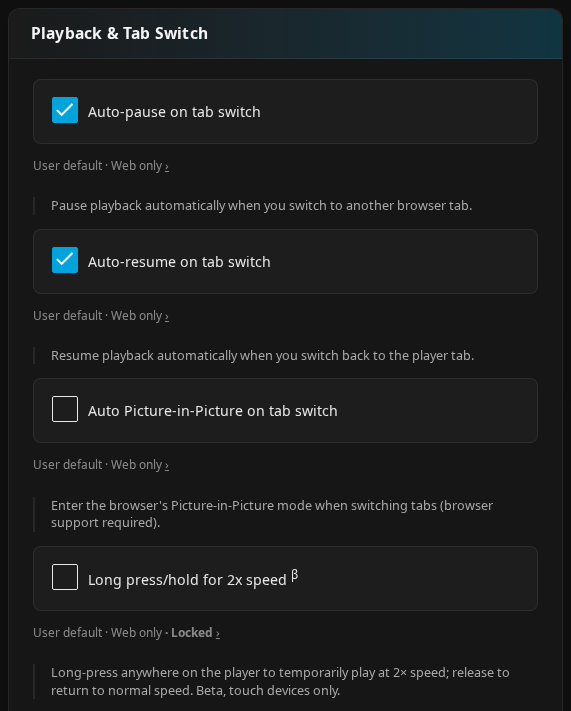
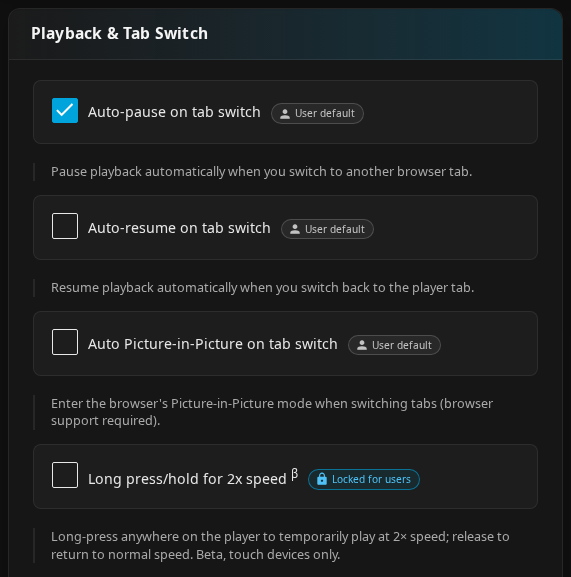
docs(settings): describe the user default chip
Explain the chip beside each per-user default (User default, Locked for
users, N of M locked), its tooltip showing where the setting applies,
and that clicking it jumps to the setting's row in the User settings
policy. Replace the screenshot with the new chips.

diff --git a/docs/enhanced/enhanced-settings.md b/docs/enhanced/enhanced-settings.md
@@ -92,14 +92,11 @@ Most features can be enabled/disabled individually:
 
 ## User defaults and the User settings policy
 
-Many settings on the plugin page are **user defaults**: the value each user starts with, which they can change in their own Jellyfin Enhanced panel. A line under each such control says so:
+Many settings on the plugin page are **user defaults**: the value each user starts with, which they can change in their own Jellyfin Enhanced panel. A chip beside the control's label reads **User default**, **Locked for users**, or **N of M locked** when only some settings in a row are locked. Click it to jump to its row in **User settings policy**.
 
-![User default badges under the Playback controls](../images/user-default-badges.png)
+![User default chips beside the Playback control labels](../images/user-default-badges.png)
 
-- **Web only**: applies in the Jellyfin Enhanced web interface, which also runs in Jellyfin for Android and webOS.
-- **Web + native posters**: also changes the poster images native TV and phone apps get, while [Native Poster Tags](#native-poster-tags-experimental) is on. With it off the line reads **Web only (native poster tags are off)**.
-- **Locked** (or **1 of 2 locked** for a row that holds several settings) when you locked it.
-- **›** jumps to the setting's row in **User settings policy**.
+Hover the chip to see where it applies: **Web only** (the Jellyfin Enhanced web interface, including Jellyfin for Android and webOS), **Web + native posters** (web overlays and poster images in native TV and phone apps), or **Web only (native poster tags are off)** when [Native Poster Tags](#native-poster-tags-experimental) is off.
 
 ### User settings policy
 
